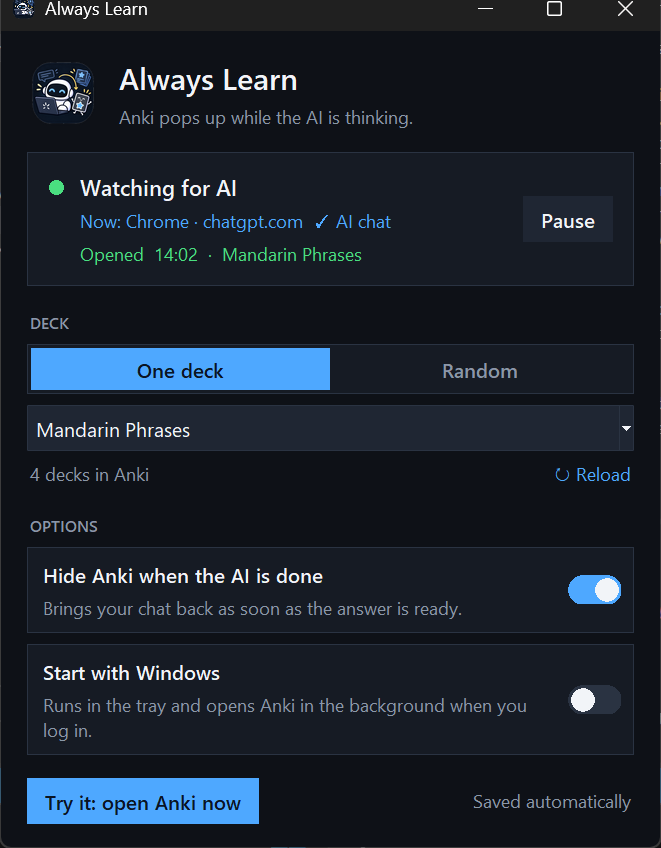
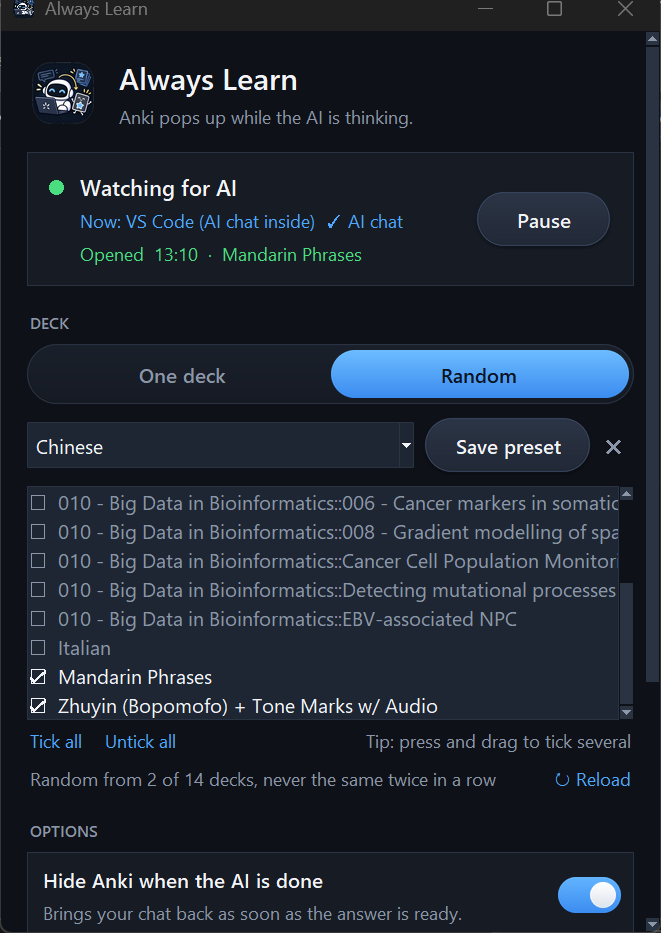
Update README for presets, Obsidian and the new settings window

diff --git a/README.md b/README.md
@@ -16,7 +16,8 @@ When the AI finishes answering, Anki hides and you're back where you were.**
 
 Works with ChatGPT, Claude, Gemini, Copilot, Perplexity, DeepSeek, Grok and more
 in any major browser or desktop app, and with the AI chat inside **VS Code**
-(Claude Code, Copilot), **Cursor**, **Windsurf**, **Trae** and **Kiro**.
+(Claude Code, Copilot), **Cursor**, **Windsurf**, **Trae**, **Kiro** and
+**Obsidian** (Copilot plugin).
 
 ![Demo: send a prompt, Anki pops up, then hides when the answer is ready](assets/screenshots/demo.gif)
 
@@ -69,9 +70,11 @@ prompt to an AI.
 | | |
 |---|---|
 | **Pause / Resume** | Stops Anki from popping up for a while. |
-| **One deck / Random** | Review one deck, or rotate between several. |
+| **One deck / Random** | Review one deck, or rotate between several. Random skips decks you've finished for today and never repeats a deck twice in a row. |
+| **Presets** | In Random, tick decks (press and drag to tick many at once), type a name like "Chinese" and click **Save preset**. Pick it from the list later to switch. |
 | **Hide Anki when the AI is done** | Hides Anki as soon as the answer is ready. |
-| **Start with Windows / at login** | Starts in the tray at login and opens Anki in the background. |
+| **Play a sound when Anki opens** | A soft chime when your card pops up. Turn it off for silence. |
+| **Start with Windows / at login** | Starts right after you sign in and opens Anki in the background. |
 
 Closing the window keeps Always Learn running in the tray (Windows) or menu
 bar (macOS). Click the robot icon to pause or quit.
@@ -82,7 +85,11 @@ bar (macOS). Click the robot icon to pause or quit.
   should say `✓ AI chat`. If it doesn't, add the site to `ai_sites` in
   `~/.always-learn.json`.
 - **"Open Anki to load your decks":** Anki or AnkiConnect isn't running.
-- **"No card appeared":** the deck has no cards due today.
+- **"No card appeared":** the deck has no cards due today. In Random mode
+  Always Learn skips finished decks by itself.
+- **AI inside an editor (VS Code, Cursor, Obsidian) doesn't trigger it:** the
+  AI's chat panel must be visible, since Always Learn watches for its Stop
+  button to know the answer has started.
 - **Anki doesn't hide after the answer:** keep the AI tab selected in its
   browser window while it answers.
 - **macOS asks for permissions again after an update:** turn Always Learn off
